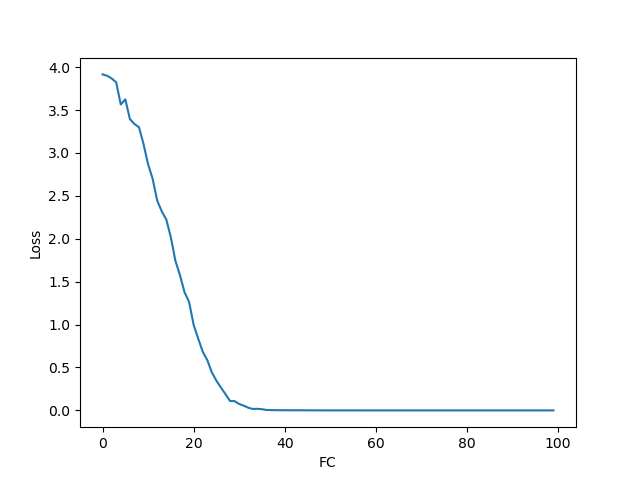
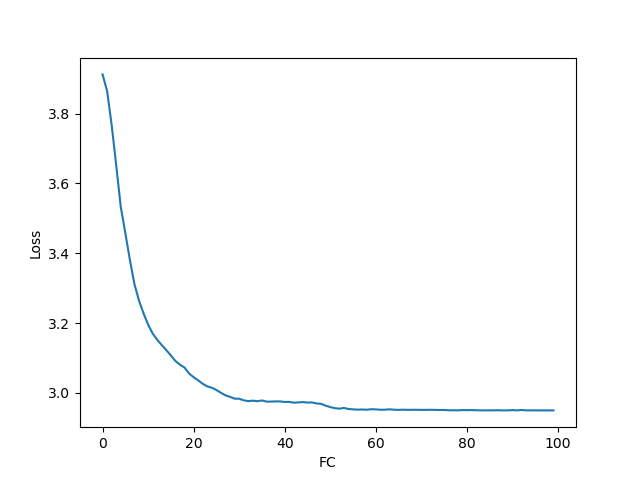
1000

diff --git a/python/big_data/HW3/pytorch_example.py b/python/big_data/HW3/pytorch_example.py
@@ -150,9 +150,9 @@ for epoch in range(epochs):
     print("EPOCH: "+str(epoch)+"; Loss: "+str(loss.item()))
 
 plt.plot(range(epochs),loss_epoch)
-plt.xlabel("FC")
+plt.xlabel(args.model_type)
 plt.ylabel("Loss")
-plt.savefig("FC.png")
+plt.savefig(args.model_type+"_"+str(args.epoch)+".png")
 
 # get predictions on test_image
 model.eval()
